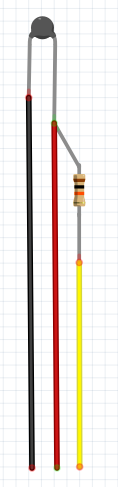
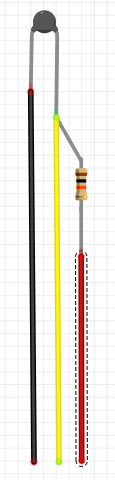
updated wiring diagram

Changed region(s): [[0.2087, 0.0, 0.7826, 0.9688]]

diff --git a/Microsoft_Azure_Examples/MS_IoTCentral_Temp_Stack_Light_PLC_Demo/README.md b/Microsoft_Azure_Examples/MS_IoTCentral_Temp_Stack_Light_PLC_Demo/README.md
@@ -36,31 +36,34 @@ In this example, you begin by learning the basics of working with Electric Imp. 
 
 ## Hardware Setup
 
-- Connect Fieldbus Gateway to Click PLC via RS485. 
+1. Connect Fieldbus Gateway to Click PLC via RS485. 
+
 <img src="./imgs/Fieldbus_RS45_WiringCloseup.jpg" width="500">
 
-- Connect 10k Thermistor to Click PLC with 10k resistor.
-    - Thermistor (Black Wire) -> PLC **ACOM**
-    - Thermistor -> 10k Resistor
-    - 10k Resistor (Red Wire) -> Power Supply **24V**
-    - 10k Resistor (Yellow Wire) -> PLC analog in **AD1 I** 
+2. Connect 10k Thermistor to Click PLC with 10k resistor.
+- Thermistor (Black Wire) -> PLC **ACOM**
+- Thermistor -> 10k Resistor
+- 10k Resistor (Red Wire) -> Power Supply **24V**
+- 10k Resistor (Yellow Wire) -> PLC analog in **AD1 I** 
 
 <img src="./imgs/Therm_Fritzing.png" width="200"><img src="./imgs/Therm_PLC_WiringCloseup.jpg" width="500">
 
-- Connect Stack Light to Click PLC.
-    - Green Wire -> PLC **Y1** 
-    - Yellow Wire -> PLC **Y2** 
-    - Red Wire -> PLC **Y3**
-    - Grey Wire -> Power Supply **0V**
+3. Connect Stack Light to Click PLC.
+- Green Wire -> PLC **Y1** 
+- Yellow Wire -> PLC **Y2** 
+- Red Wire -> PLC **Y3**
+- Grey Wire -> Power Supply **0V**
+
 <img src="./imgs/StackLight_WiringCloseup.jpg" width="500">
 
-- Connect the PLC to the power supply.
-    - PLC power (on the bottom of the unit) to the Power Supply terminals.
-    - Power Supply **24V** -> PLC **C2**
+4. Connect the PLC to the power supply.
+- PLC power (on the bottom of the unit) to the Power Supply terminals.
+- Power Supply **24V** -> PLC **C2**
 
 <img src="./imgs/PLC_Power_WiringCloseup.jpg" width="400"><img src="./imgs/PLC_Power_Jumper_WiringCloseup.jpg" width="400">
 
-- Connect the Fieldbus Gateway to the power supply.
+5. Connect the Fieldbus Gateway to the power supply.
+
 <img src="./imgs/FieldbusGateway_Power_WiringCloseup.jpg" width="500">
 
 Assembled, the hardware should look like this:
